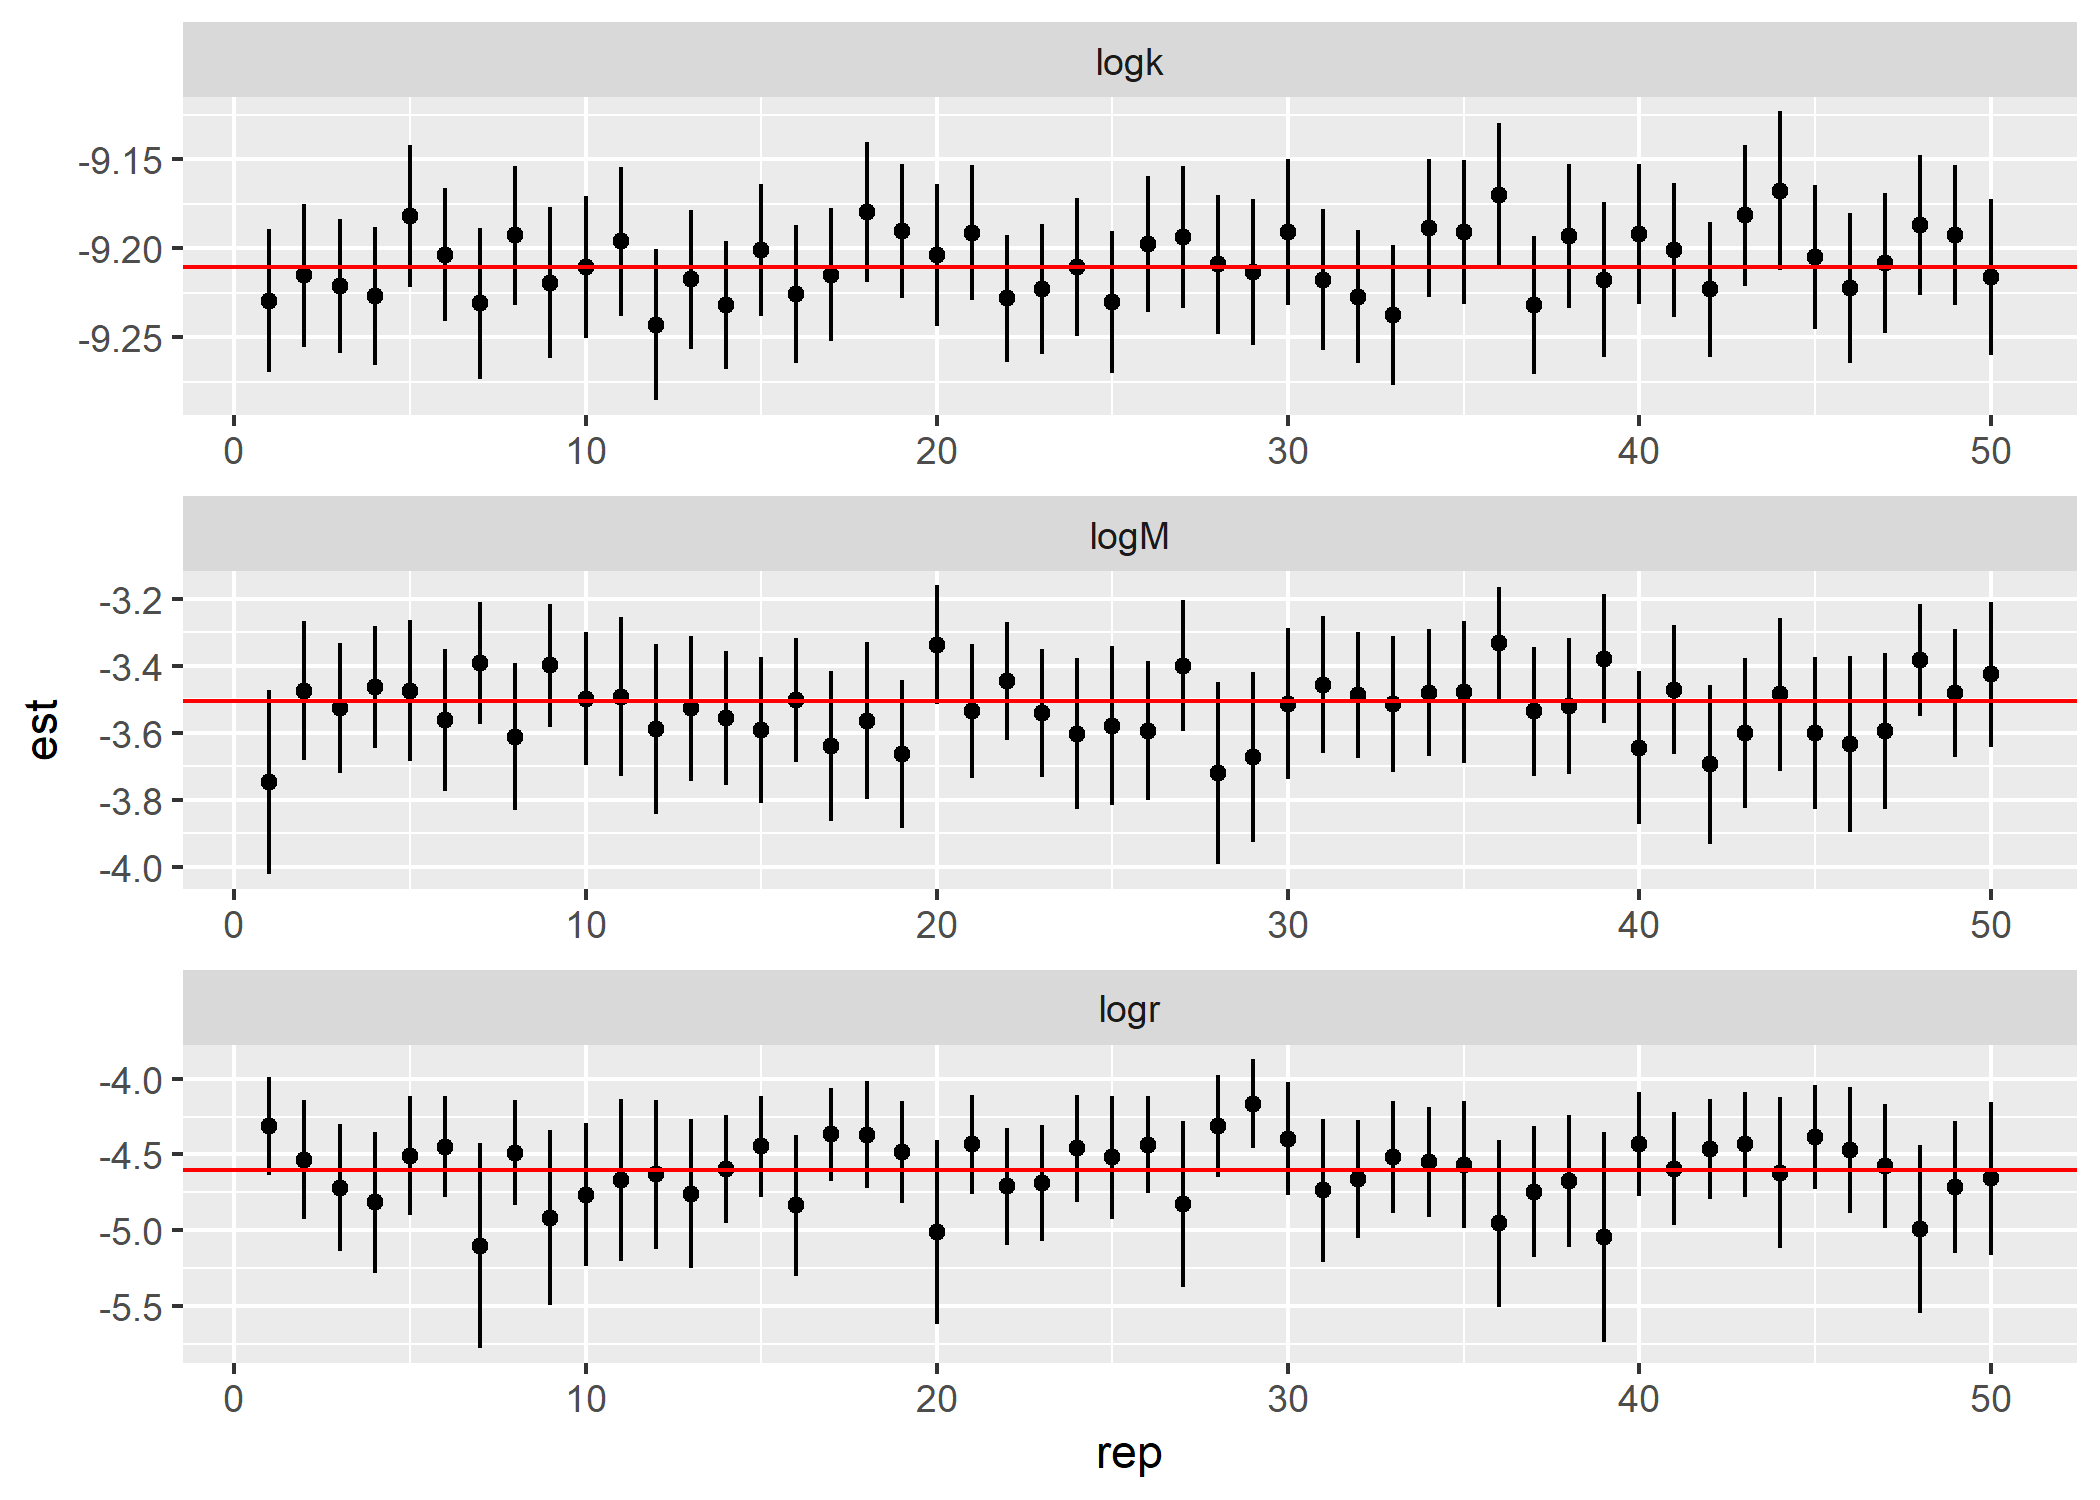
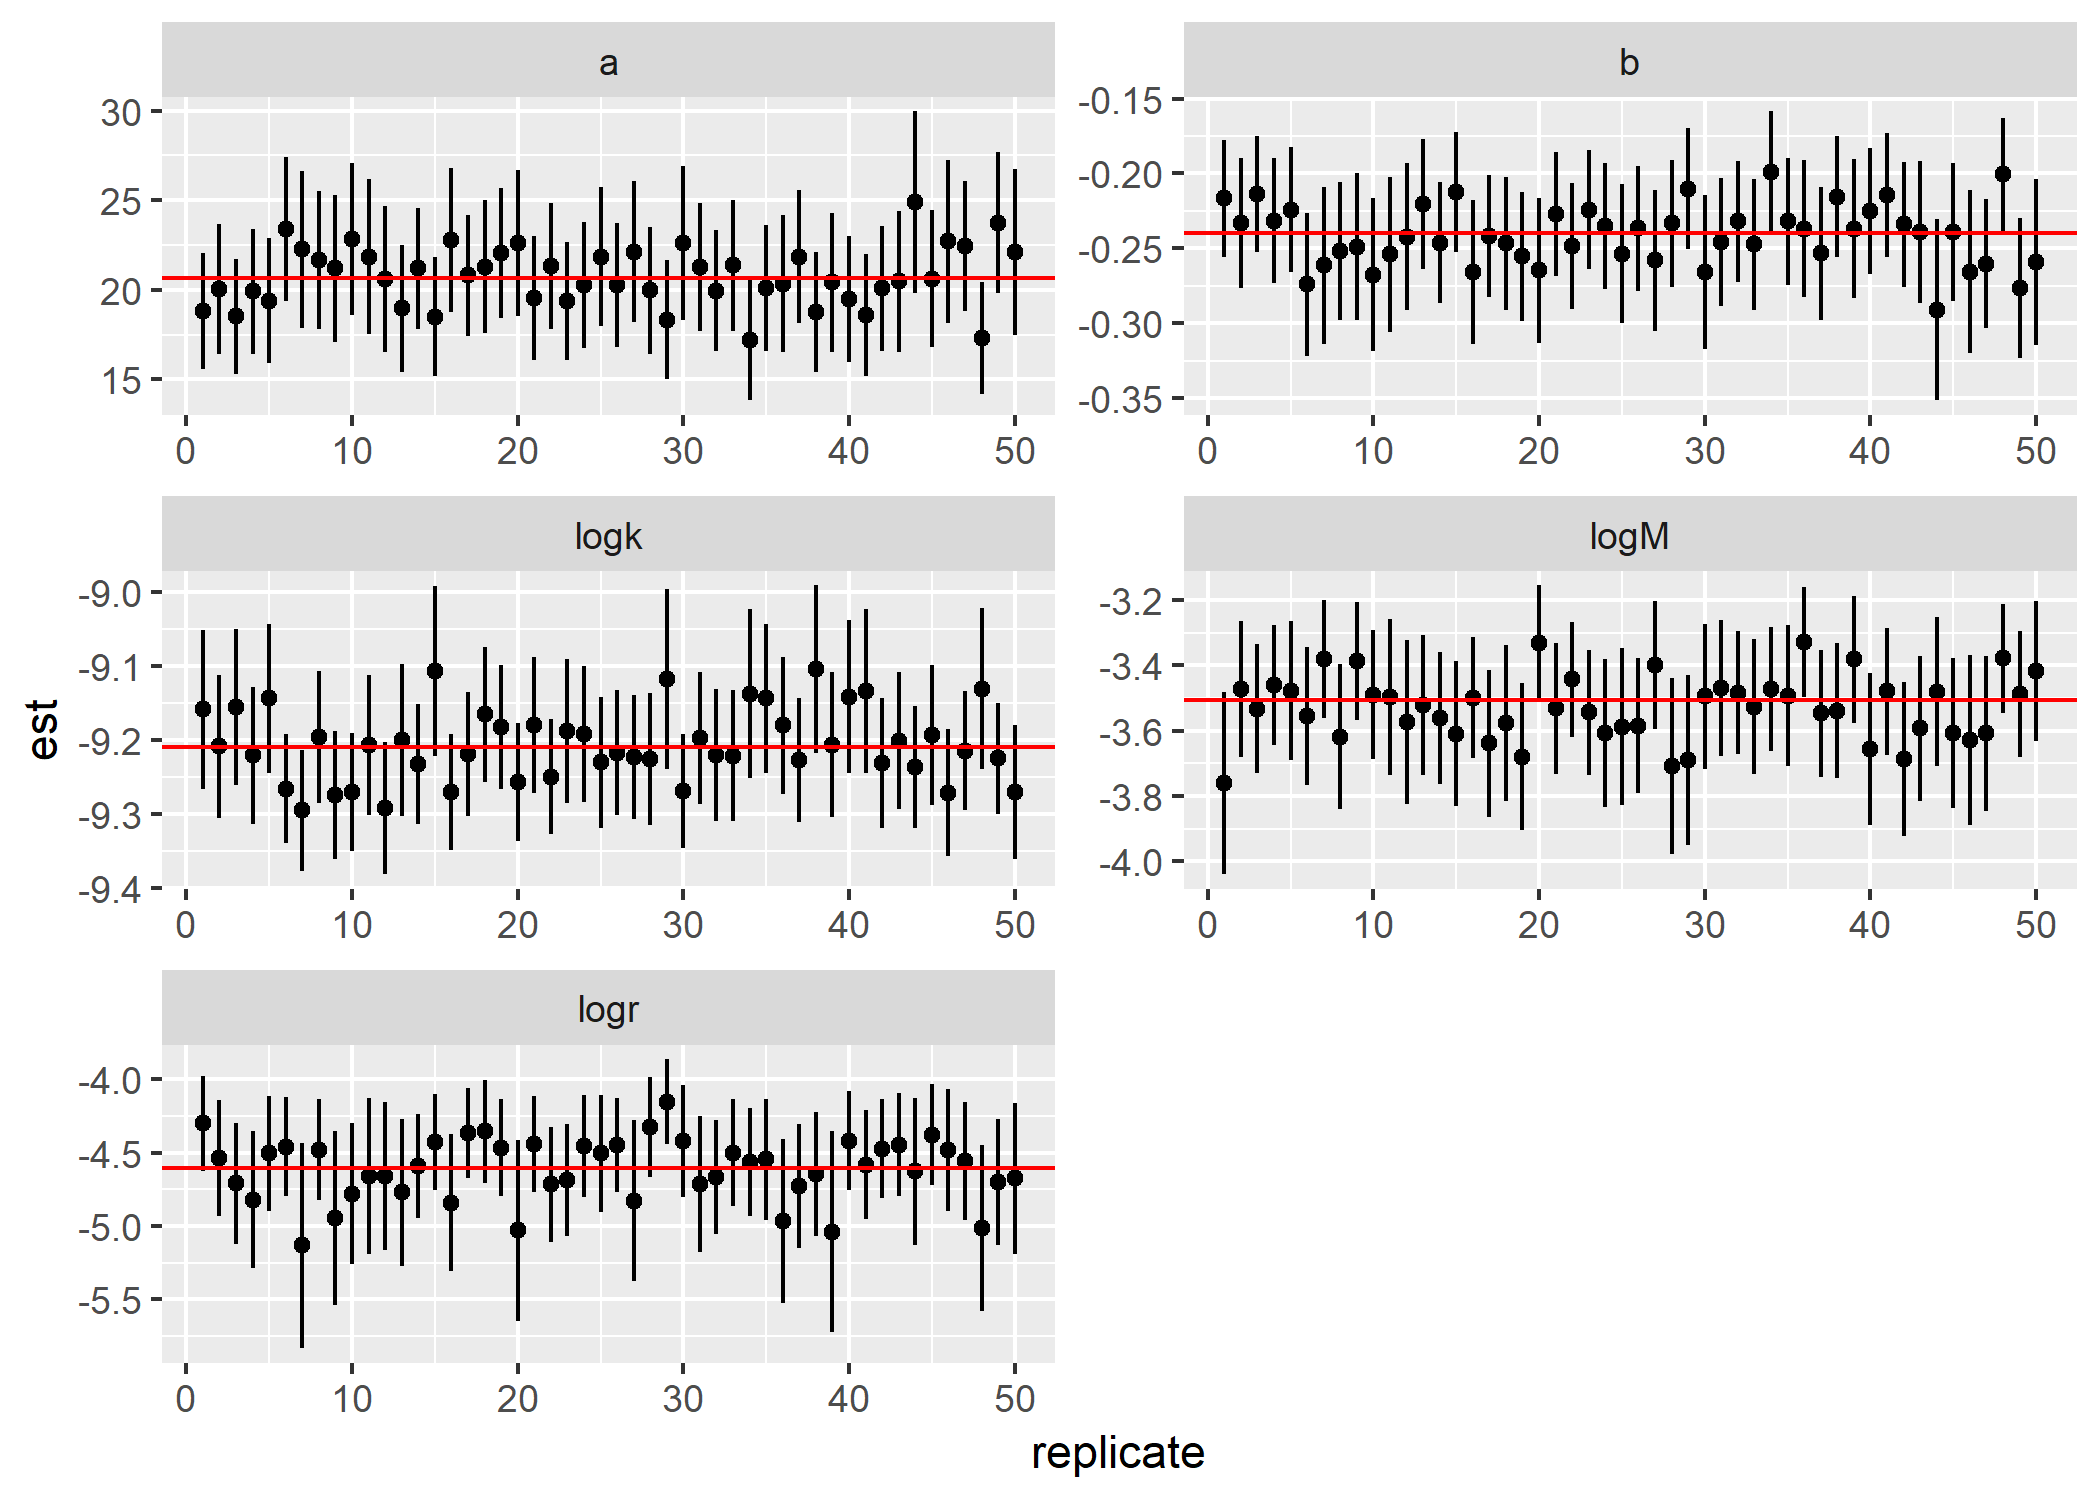
Actualiza todo para poder estimar selectividad

diff --git a/modelos/cjs_jf.cpp b/modelos/cjs_jf.cpp
@@ -27,11 +27,14 @@ Type objective_function<Type>::operator() ()
   DATA_VECTOR(effort);		// la esfuerza por cada periodo
   DATA_VECTOR(lengths);		// longitudes de los individuos
   DATA_IVECTOR(first);		// el primero periodo
+  DATA_VECTOR(lengths_pred);	// para calcular selectividad
   
   // efectos fijos
   PARAMETER(logM);		// mortalidad de naturleza
   PARAMETER(logr);		// effecto de los numeros de capturas
   PARAMETER(logk);		// effecto de esfuerza de probabilidad de captura
+  PARAMETER(a); 		// efecto de la selectividad
+  PARAMETER(b); 		// efecto de la selectividad
   Type nll=0.0;			// negativa log verosimiltud
   matrix<Type> p(I,K); 		// probabilidad de las capturas
   matrix<Type> phi(I,K);	// prob. de la sobrevivencia
@@ -46,9 +49,9 @@ Type objective_function<Type>::operator() ()
   Type r=exp(logr);
   Type k=exp(logk);
   // Selectividad es asumido conocido
-  Type a=20.65;
-  Type b=-.24;
-
+  // Type a=20.65;
+  // Type b=-.24;
+    
   // TMB usa indices de 0, no de 1, entoces tenemos que estar cuidadoso, y
   // uso un "-1" para ser claro que pasa.
   for(int i=0; i<I; i++){ // iterando sobre cada individuos
@@ -94,13 +97,22 @@ Type objective_function<Type>::operator() ()
     // probabilidad de no ser capturado despues el proximo periodo fue visto 
     nll-= log(chi(i,last(i)+1-1));
   }
+
+  vector<Type> sel_pred(lengths_pred.size());
+  for(int i=0; i<sel_pred.size(); i++){
+    sel_pred(i)=1/(1+exp(a+b*lengths_pred(i)));
+  }
+  
   // reportando
   ADREPORT(M);
   ADREPORT(r);
   ADREPORT(k);
-  // REPORT(p);
-  // REPORT(phi);
-  // REPORT(CH);
+  ADREPORT(a);
+  ADREPORT(b);
+  ADREPORT(sel_pred);
+  REPORT(p);
+  REPORT(phi);
+  REPORT(CH);
   return(nll);
 }
 // final del archivo
